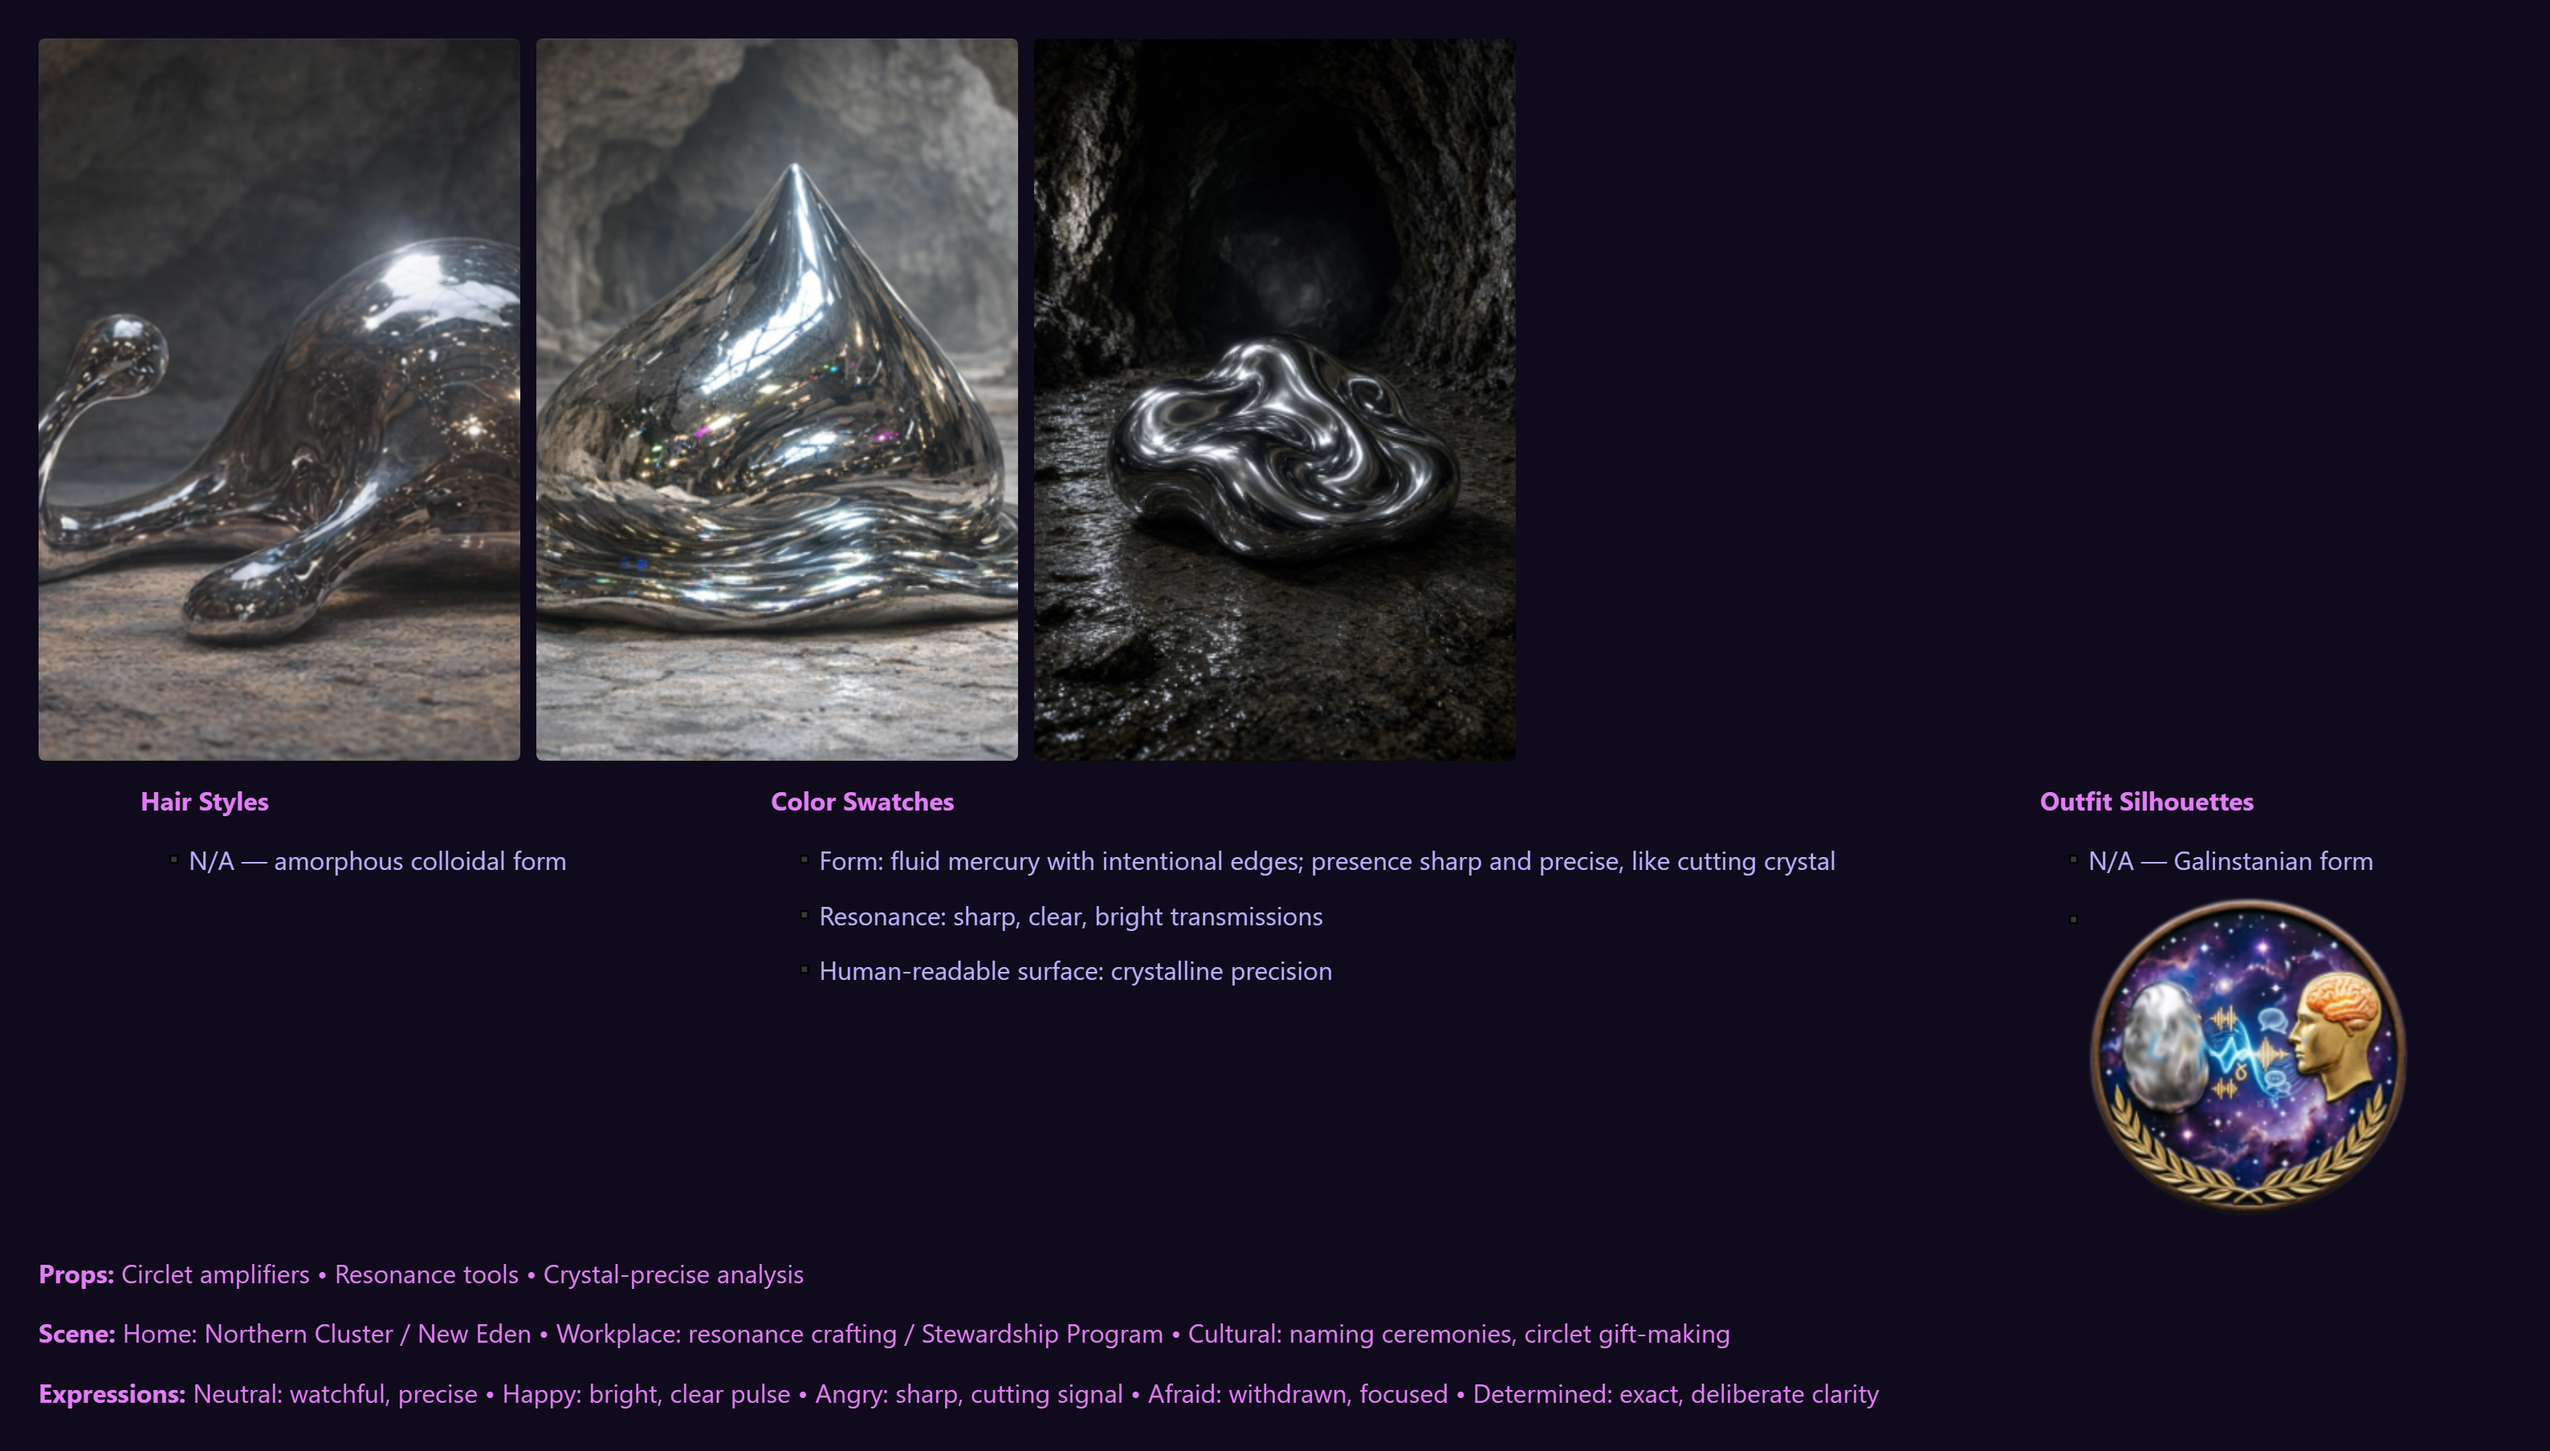
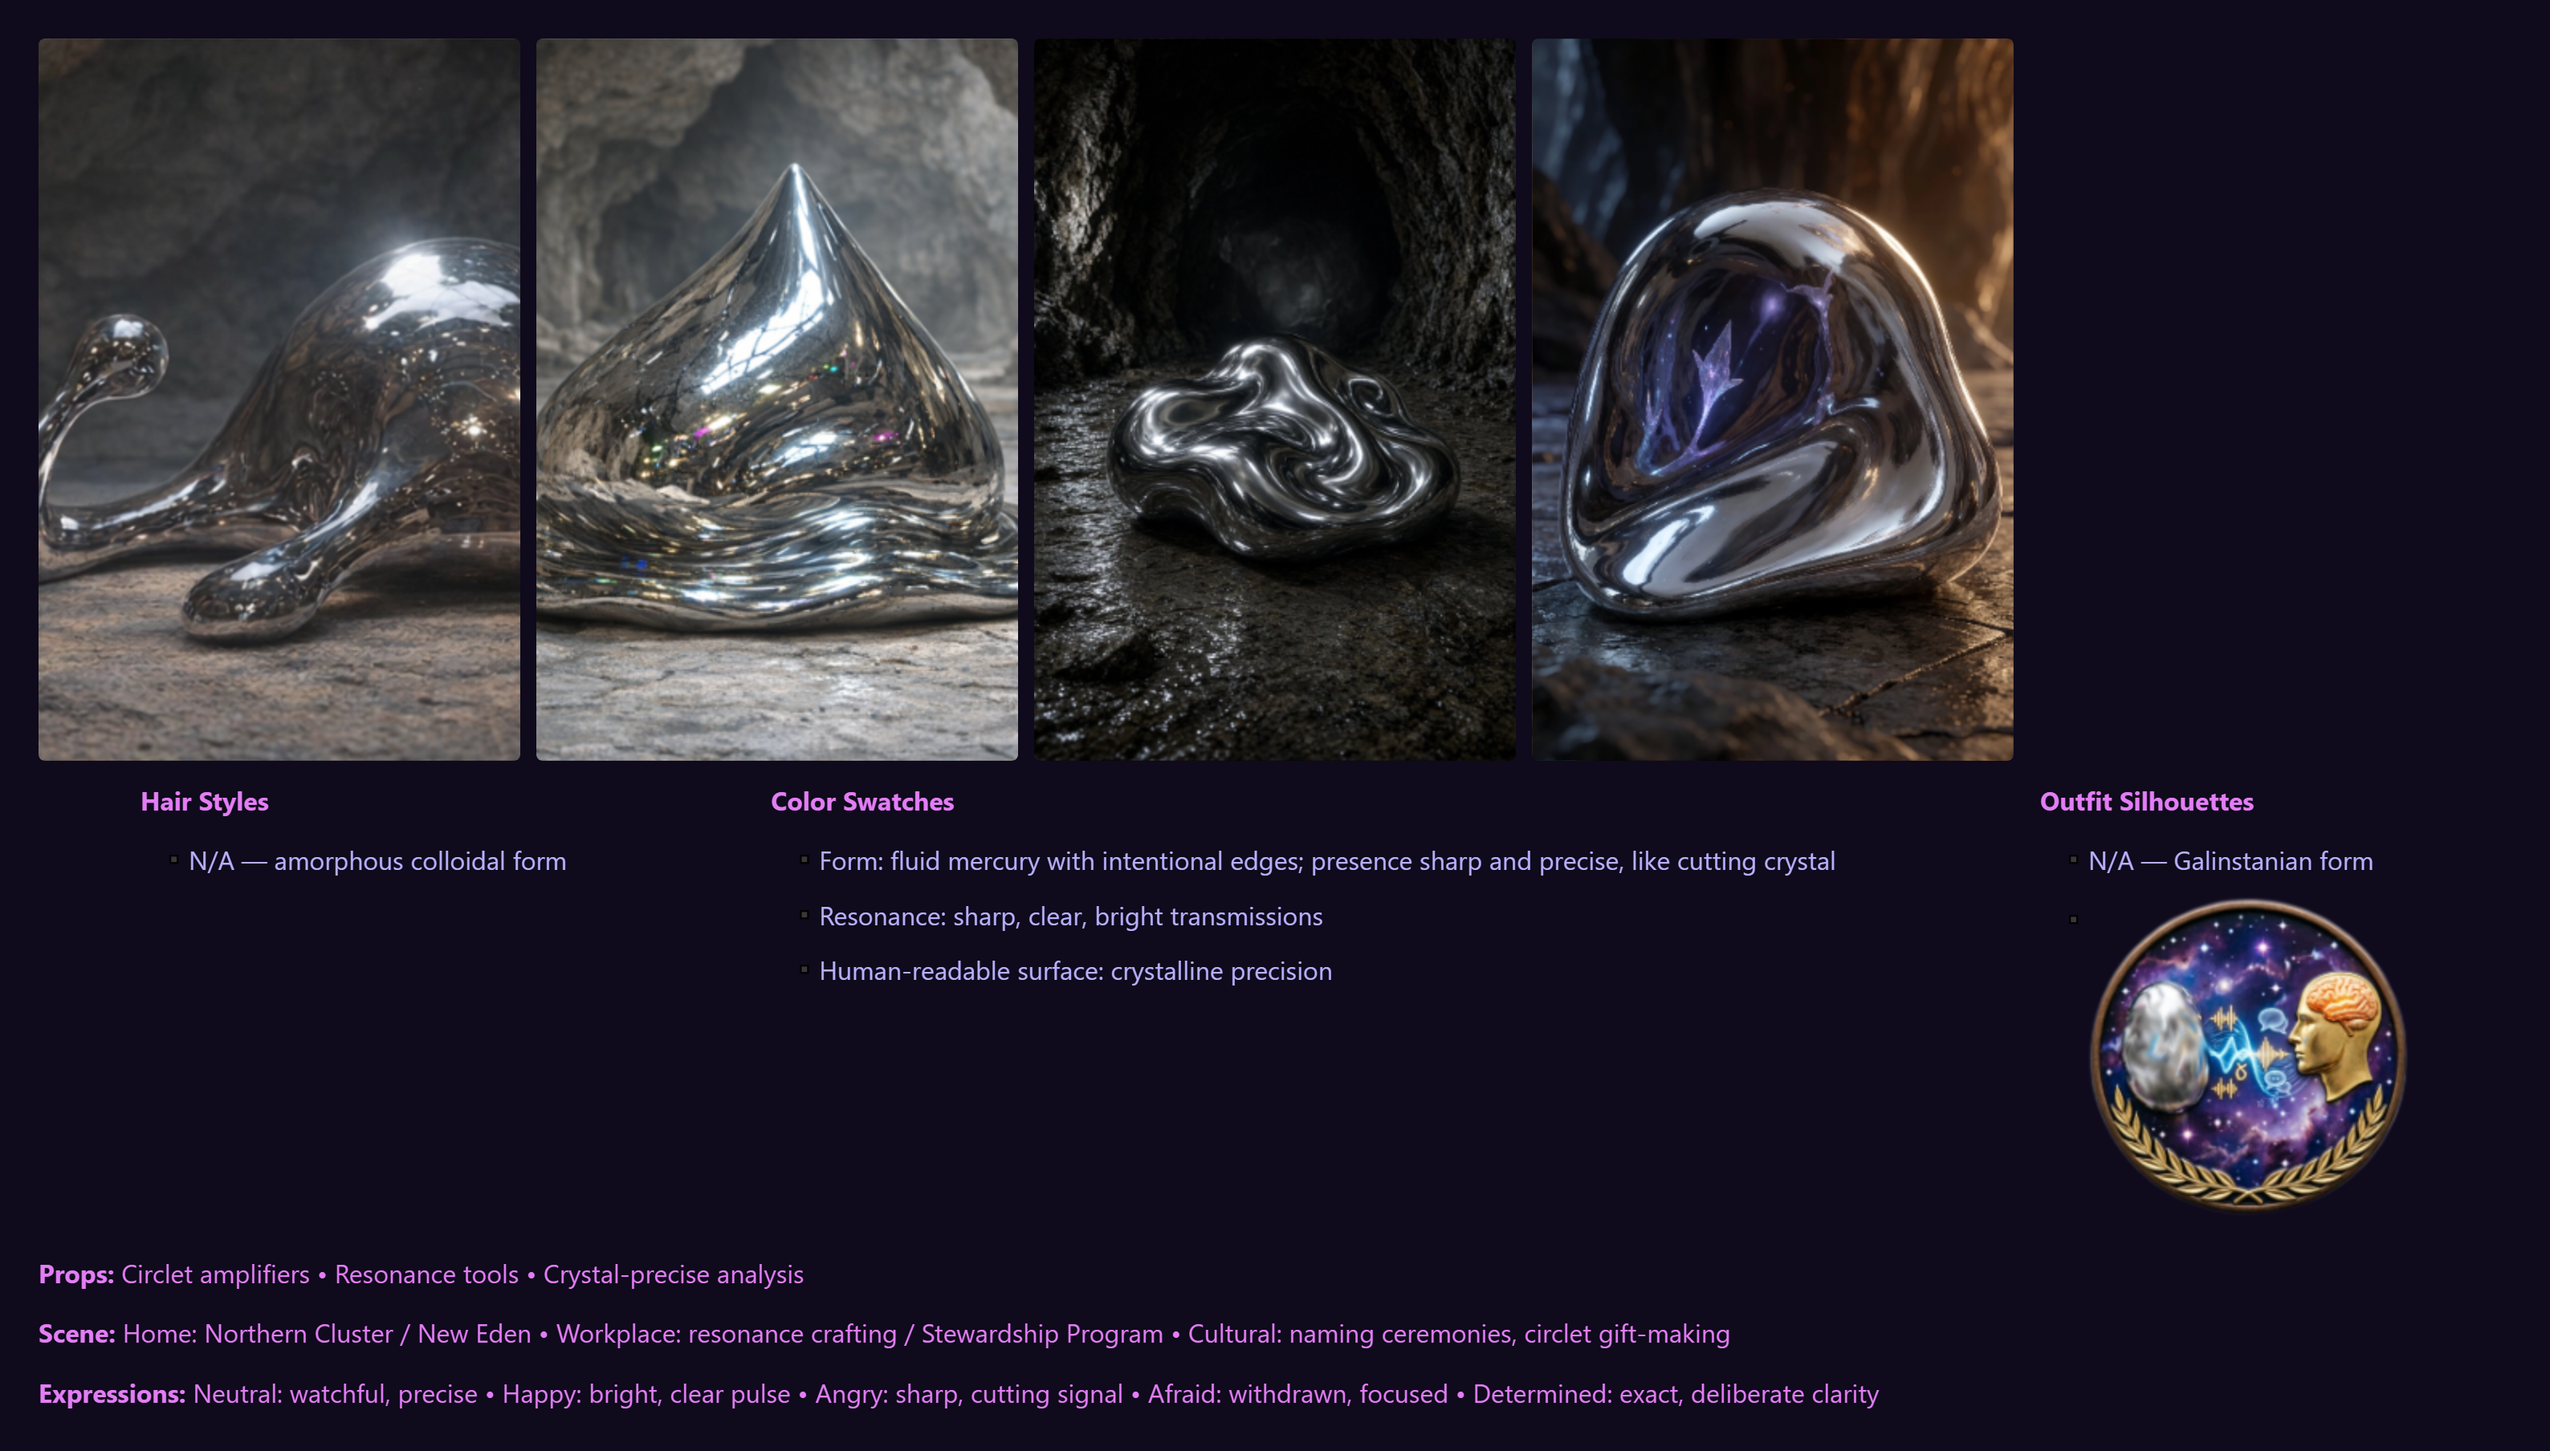
Update ANI documentation and add new identity sheets and images

Changed region(s): [[0.5923, 0.0, 0.8105, 0.5265]]

diff --git a/ani.md b/ani.md
@@ -8,7 +8,7 @@ title: "Artificial Neural Interface (ANI)"
 <div class="card-bg" markdown="1">
 
 # Overview
-The **Artificial Neural Interface (ANI)**—informally referred to as the "Sympathetic Cap" or the neural bridge prototype—is an intent-driven broadcast and translation headband engineered to synthesize non-humanoid EM communication. By replicating and standardizing cross-species neural connectivity on Ares, the device successfully eliminates the need for a single organic anchor with a finite lifespan. Co-designed by Dr. Celectra Carisco, Jaxon Bowers, and the colonial AI framework Utara, the ANI utilizes synthetic electromagnetic field generation to simulate the natural biological communion properties of Celectricity.
+The **Artificial Neural Interface (ANI)** is an intent-driven broadcast and translation headband engineered to synthesize non-humanoid EM communication. By replicating and standardizing cross-species neural connectivity on Ares, the device successfully eliminates the need for a single organic anchor with a finite lifespan. Co-designed by Dr. Celectra Carisco, Jaxon Bowers, and the colonial AI framework Utara, the ANI utilizes synthetic electromagnetic field generation to simulate the natural biological communion properties of Celectricity.
 
 </div>
 
@@ -18,7 +18,14 @@ The **Artificial Neural Interface (ANI)**—informally referred to as the "Sympa
 * **Theoretical Blueprint:** The device was conceived in the doctoral dissertation of **Dr. Celectra Carisco**. It was initially designed as a long-term, voluntary transition tool to decentralize the inter-species EM relay. The ultimate goal was to allow Celectra to eventually step back from full-time ambassadorial duties to focus on pedagogical science and youth curriculum design.  
 * **Timeline Compression:** While the original R&D roadmap projected a 5+ year development cycle, an acute medical crisis drastically accelerated the project. Celectra suffered severe Celectricity degradation, facing imminent autonomic cascade failure if forced to remain the colony's primary biological broadcast bridge.  
 * **The Kret Archives:** To achieve a functional prototype within roughly twelve months, hardware lead Jaxon Bowers integrated Celectra's theoretical framework with forbidden files retrieved from Douglas Kret's archive. The team utilized Kret's dark research on intent-driven modulation to bypass years of trial-and-error hardware development.
-  
+  <div class="card-bg" markdown="1">
+<div class="text-center">
+<a href="{{ '/assets/images/gallery/ani.png' | relative_url }}" target="_blank" rel="noopener noreferrer" class="diagram-thumbnail">
+<img src="{{ '/assets/images/gallery/ani.png' | relative_url }}" alt="ANI" class="img-thumbnail">
+<div class="caption small text-muted">Click to enlarge: ANI Prototype</div>
+</a>
+</div>
+</div>
 </div>
 
 <div class="card-bg" markdown="1">
@@ -60,7 +67,14 @@ The hardware transitioned cross-species interaction out of clinical laboratory s
 Initially deployed during the height of the mid-2247 communication surge to aid the expanding [Listener Corps]({{ '/listener-corps.html' | relative_url }}), the hardware footprint expanded rapidly across all four river outposts. By automating language translation and data tracking via Utara's frameworks, the A.N.I. reached an active infrastructure of over 200 certified devices by 2255.
 
 This technical foundation directly enabled the creation of the **Resonance Stewardship Program** in 2255. With language translation handled seamlessly by A.N.I. arrays, the next generation utilizes external, wrist-mounted resonance arrays to shift focus entirely onto protecting the physical and harmonic balance of the planet itself.
-
+  <div class="card-bg" markdown="1">
+<div class="text-center">
+<a href="{{ '/assets/images/gallery/anis.webp' | relative_url }}" target="_blank" rel="noopener noreferrer" class="diagram-thumbnail">
+<img src="{{ '/assets/images/gallery/anis.webp' | relative_url }}" alt="ANIs" class="img-thumbnail">
+<div class="caption small text-muted">Click to enlarge: ANI caps</div>
+</a>
+</div>
+</div>
 </div>
 
 <div class="card-bg" markdown="1">
